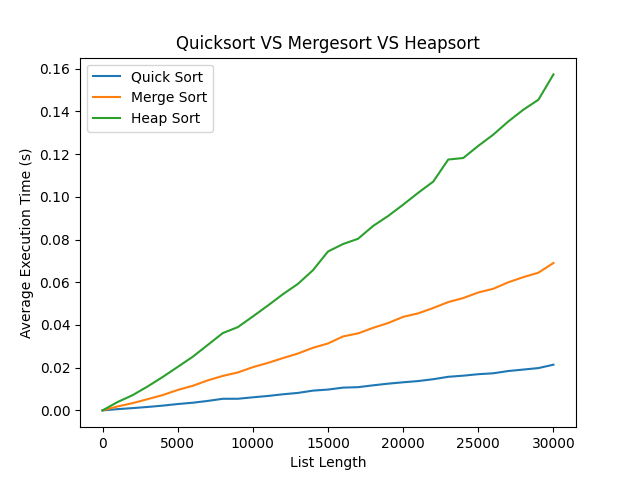
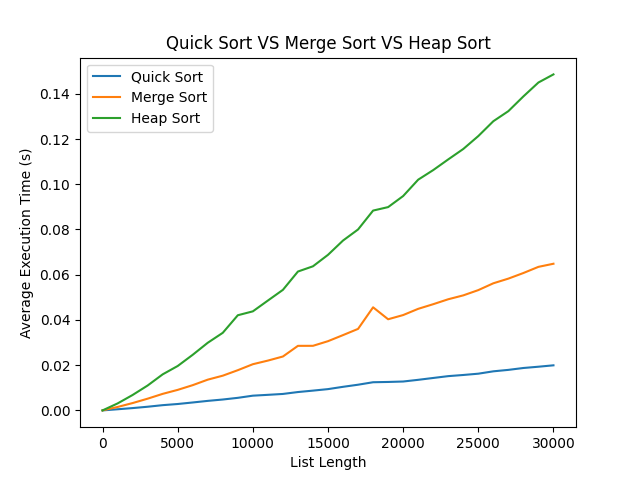
Title fix in experiment 4

diff --git a/experiment4.py b/experiment4.py
@@ -17,7 +17,7 @@ def sorting_test(sorting_algorithm, L):
     time += end - start
     
     return time
-    
+
 def experiment4():
     avg_quicksort_times = []
     avg_mergesort_times = []
@@ -45,7 +45,7 @@ def experiment4():
 
     plt.xlabel('List Length')
     plt.ylabel('Average Execution Time (s)')
-    plt.title('Quicksort VS Mergesort VS Heapsort')
+    plt.title('Quick Sort VS Merge Sort VS Heap Sort')
     plt.legend()
     plt.show()
 
